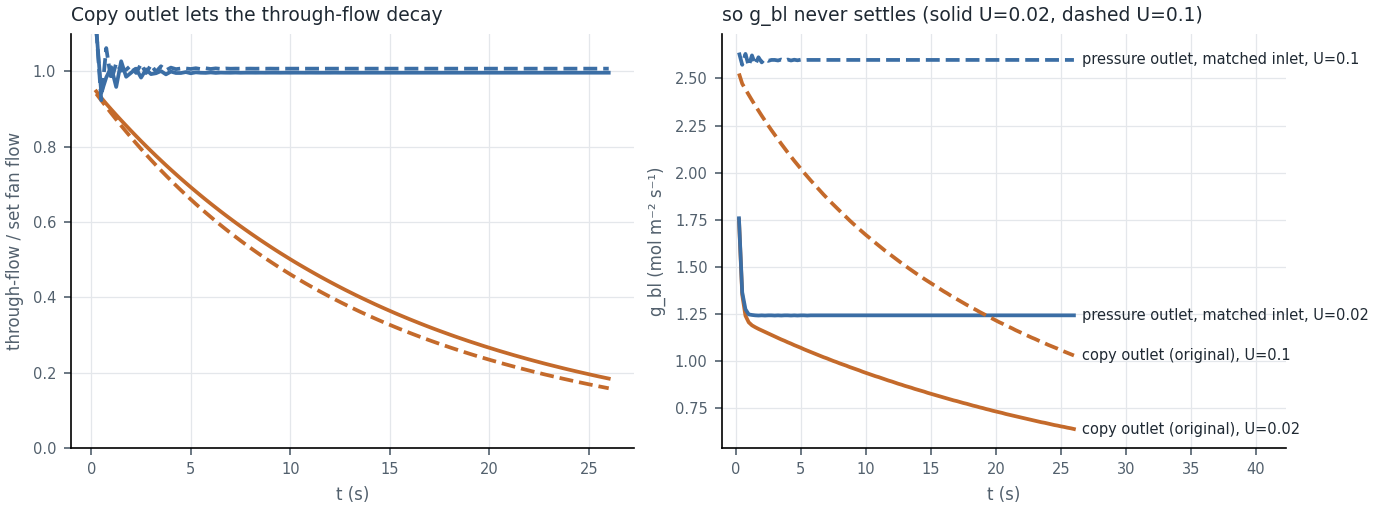
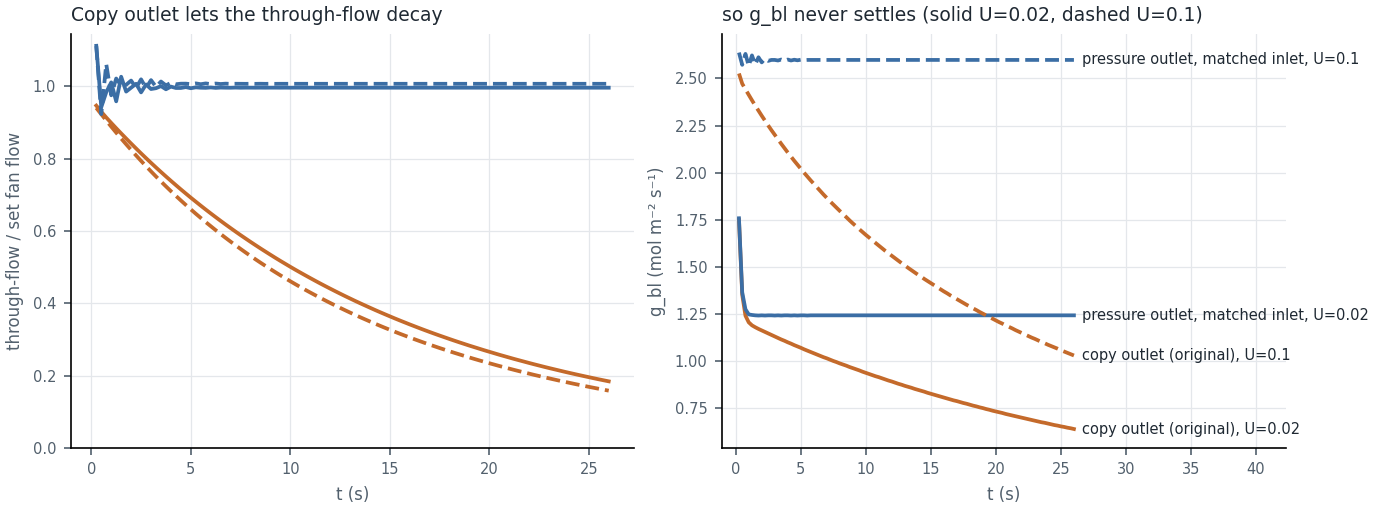
Fix five findings from the /abai check of b0b970f and 8f718fd
- results/README: "steady from 5 s on" was not exact (rosette U=0.16 moved
  0.879 -> 0.876); now "within 0.4 % of the 26 s value in every run".
- results/README: the new reproduce step ran git-ignored .mjs files; add
  the esbuild lines and the INLET_FLUX_BC=equilibrium recipe for the
  before table.
- archive/2026-07-deck/README: "current values" said 6.5 cm/s (now 6.1),
  and the linked replacement deck's fan slide predates the inlet fix.
- F11: restore the committed six-panel figure. Its six series are
  unchanged; re-running the plot had globbed three extra series in and
  clipped a panel title.
- F12: let the left axis fit the start-up transient (peak 1.11) instead
  of clipping it at 1.1.

diff --git a/analysis/plot_outlet_bc.py b/analysis/plot_outlet_bc.py
@@ -31,6 +31,7 @@ LABEL = {"copy": "copy outlet (original)", "pressure": "pressure outlet, matched
 
 def main() -> None:
     fig, (a1, a2) = plt.subplots(1, 2, figsize=(9.2, 3.4), dpi=150, constrained_layout=True)
+    top = 1.1
     for p in sorted(glob.glob("results/age/age_fan_U*_*.csv")):
         m = re.search(r"U([\d.]+)_(copy|pressure)", p)
         u, bc = m.group(1), m.group(2)
@@ -38,11 +39,12 @@ def main() -> None:
         t = d["t_s"]
         kw = dict(color=COLOR[bc], ls=DASH.get(u, ":"), lw=1.8)
         a1.plot(t, d["throughput_over_set"], **kw)
+        top = max(top, 1.03 * float(max(d["throughput_over_set"])))  # keep the start-up transient in frame
         a2.plot(t, d["g_bl"], **kw)
         a2.annotate(f"{LABEL[bc]}, U={u}", (t[-1], d["g_bl"][-1]), xytext=(4, 0), textcoords="offset points",
                     fontsize=7, color=INK, va="center")
     a1.set_ylabel("through-flow / set fan flow", fontsize=8, color=MUTED)
-    a1.set_ylim(0, 1.1)
+    a1.set_ylim(0, top)
     a2.set_ylabel("g_bl (mol m⁻² s⁻¹)", fontsize=8, color=MUTED)
     a2.set_xlim(right=a2.get_xlim()[1] * 1.55)
     for ax in (a1, a2):

diff --git a/results/README.md b/results/README.md
@@ -6,7 +6,7 @@ gravity × canopy-scale predictions of surface O₂/CO₂/H₂O gradients.
 > **Revision 2026-11-07 (forced-airflow inlet).** The ventilation inlet held its column at equilibrium
 > with ρ = 1. Once the interior pressurises to push the flow to the ρ = 1 outlet, mass leaks back across the
 > inlet face, so every forced scene delivered less than its stated fan speed: leaf 96–98 %, rosette 88–96 %,
-> canopy 85–95 % (the VEGGIE scenes: leaf 97 %, rosette 93 %, canopy 89 %), steady from 5 s on
+> canopy 85–95 % (the VEGGIE scenes: leaf 97 %, rosette 93 %, canopy 89 %), already at 5 s (within 0.4 % of the 26 s value in every run)
 > (`tables/inlet_flux_before.csv`: exact mass flux through the outlet face over U·H, `validation/inlet_flux.ts`).
 > The pressure outlet's "holds the throughput at U" had never been checked against an outlet flux, and F12's
 > left panel plotted the flow relative to its own value at 0.25 s, which hid the shortfall. The inlet now takes
@@ -17,7 +17,8 @@ gravity × canopy-scale predictions of surface O₂/CO₂/H₂O gradients.
 > reproduce (the re-run copy-outlet files in `age/` match their old columns exactly). Gates 1–4 do not use this
 > inlet; their output is identical to the previous code under BGK and MRT.
 > **Regenerated:** T6, T7 (VEGGIE rows), T9, T10, T15 (the two `-pressure` fan rows), T18 (VEGGIE rows), `age/`,
-> `timeseries/leaf-ug-fan-{lo,mid}-pressure.csv`, F6–F9, F11, F12 and the two fan animations. T6/T9/T10 and `age/`
+> `timeseries/leaf-ug-fan-{lo,mid}-pressure.csv`, F6–F9, F12 and the two fan animations (F11 plots six scenarios
+> whose series did not change, so it stays as it was). T6/T9/T10 and `age/`
 > gained a `throughput_over_set` column. **What moved:** rosette Earth-equivalent fan speed 6.5 → 6.1 cm/s (leaf
 > stays 2.0); VEGGIE rosette |ΔC CO₂| 0.294 → 0.289 (Earth 0.298); VEGGIE canopy 0.406 → 0.426, now at Mach 0.46
 > (was 0.32). With the full flow delivered, the canopy at 6.6 cm/s passes the low-Mach limit (Ma 0.26 → 0.35),
@@ -198,7 +199,10 @@ python validation/feedback_0d.py       # 0-D closed-loop photosynthesis -> F10, 
 # 4) verification added 2026-10-07 (timeseries -> T15/F11, outlet check -> F12, resolution ladder -> T16)
 #    see validation/timeseries.ts, age_check.ts, resolution_ladder.ts and analysis/*.py
 # 4b) forced-airflow throughput (added 2026-11-07) -> inlet_flux_<tag>.csv, inlet_variants.csv
+npx esbuild validation/inlet_flux.ts --bundle --format=esm --platform=node --outfile=validation/inlet_flux.mjs
+npx esbuild validation/inlet_variants.ts --bundle --format=esm --platform=node --outfile=validation/inlet_variants.mjs
 #    export INLET_FLUX_TAG=after   # names the output table and partials (before = the run on the ρ = 1 inlet)
+#    (INLET_FLUX_TAG=before INLET_FLUX_BC=equilibrium reproduces inlet_flux_before.csv)
 #    node validation/inlet_flux.mjs list | xargs -P 16 -I{} node validation/inlet_flux.mjs job {} && node validation/inlet_flux.mjs merge
 #    node validation/inlet_variants.mjs list | xargs -P 16 -I{} node validation/inlet_variants.mjs job {} && node validation/inlet_variants.mjs merge
 python3 -m pytest analysis/ -q

diff --git a/archive/2026-07-deck/README.md b/archive/2026-07-deck/README.md
@@ -2,9 +2,9 @@
 
 `CFD_Spaceflight_Botany.pptx` / `.pdf` (13 slides, generated with NotebookLM in July 2026 — its mark is on every slide — with the text baked into images) are kept here for the record only. They predate the October 2026 fixes and contain statements that are no longer true:
 
-- **Fan speeds:** 2.6 / 11 / ≈21 cm/s for leaf, rosette and canopy. The current values are 2.0 cm/s, ≈6.5 cm/s and *not reached* for the canopy within the solver's valid range (`results/tables/T9_fan_by_scale.csv`).
+- **Fan speeds:** 2.6 / 11 / ≈21 cm/s for leaf, rosette and canopy. The current values are 2.0 cm/s, ≈6.1 cm/s and *not reached* for the canopy within the solver's valid range (`results/tables/T9_fan_by_scale.csv`; 6.5 cm/s before the 2026-11-07 inlet fix).
 - **Leaf-surface CO₂ gaps:** from pre-steady-state snapshots (`T13`, `T15`).
 - **Archiving:** a "minted DOI for permanent academic archiving". No archival DOI exists yet.
 - **Comparisons:** a table that badges three other tools "[No Physics]", with no source.
 
-**Replacement:** a 13-slide deck built from the current `results/tables` (each slide names its source table): [LunarLeaf-CFD: gravity and the leaf boundary layer](https://claude.ai/artifact/XLzC9EJb1KD4vbuNF334Bo). The link is private until shared by its owner.
+**Replacement:** a 13-slide deck built from the October 2026 `results/tables` (each slide names its source table; its fan slide predates the 2026-11-07 inlet fix and still gives the rosette as ≈ 6.5 cm/s, now 6.1): [LunarLeaf-CFD: gravity and the leaf boundary layer](https://claude.ai/artifact/XLzC9EJb1KD4vbuNF334Bo). The link is private until shared by its owner.
